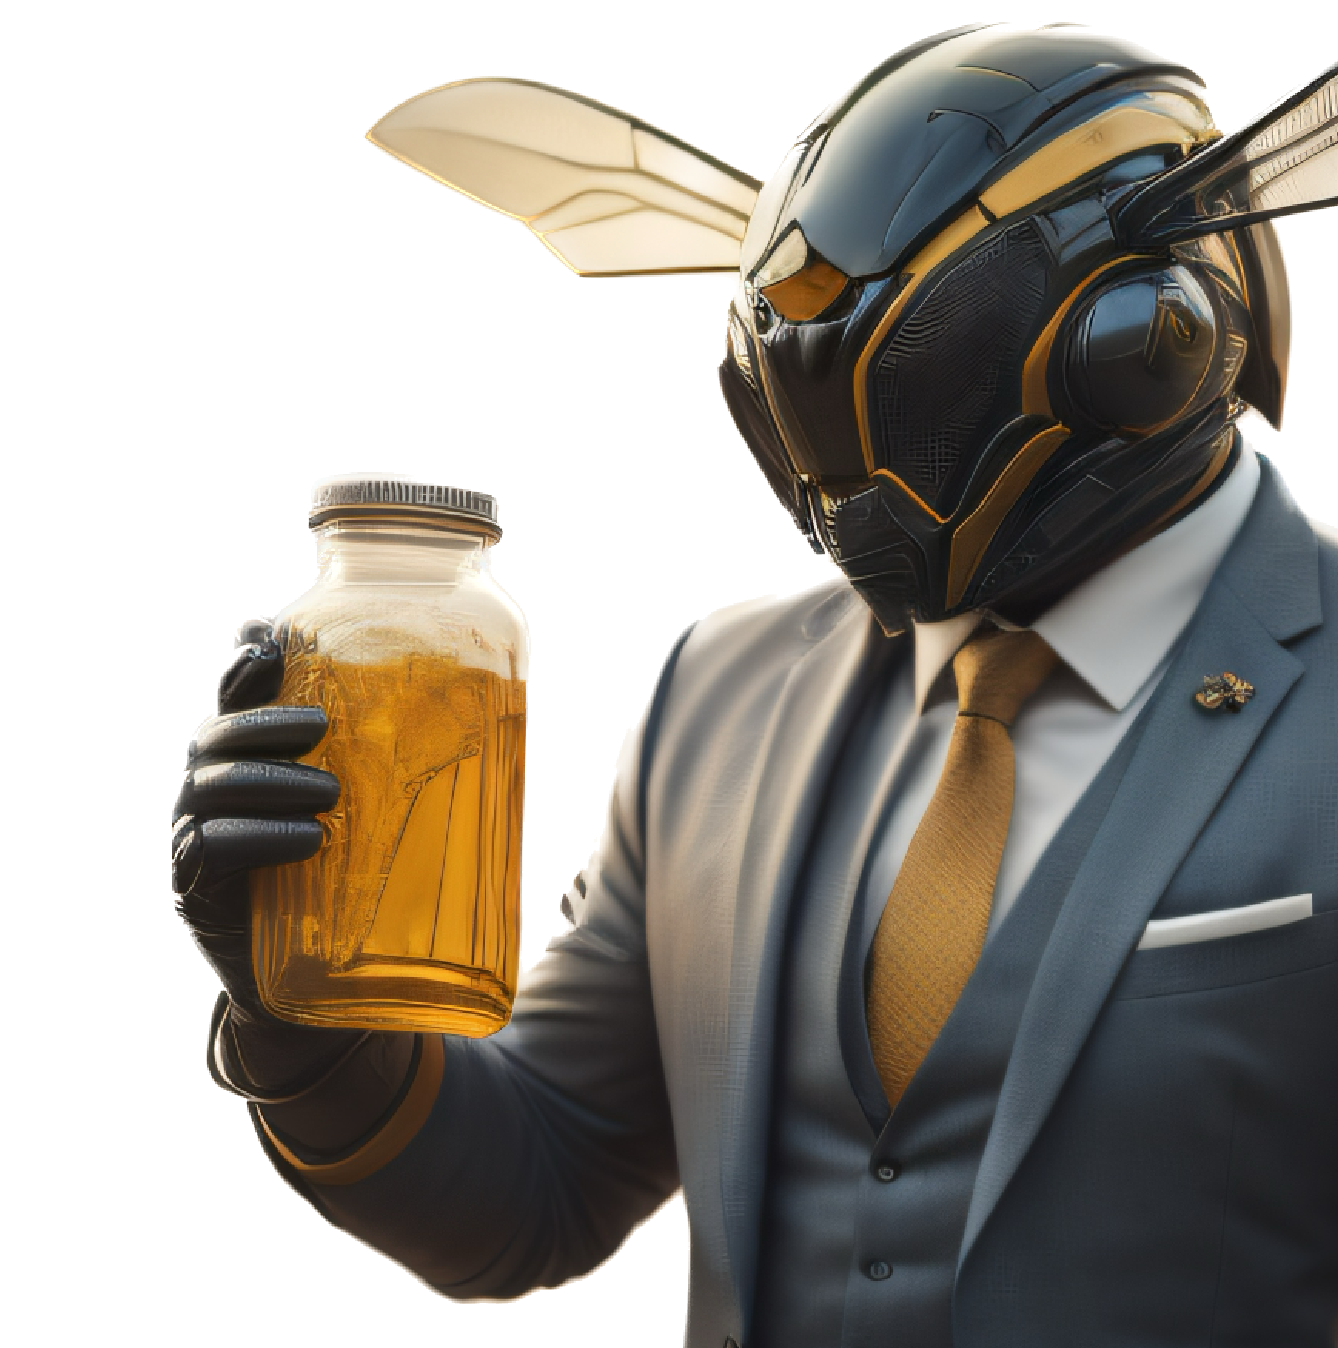
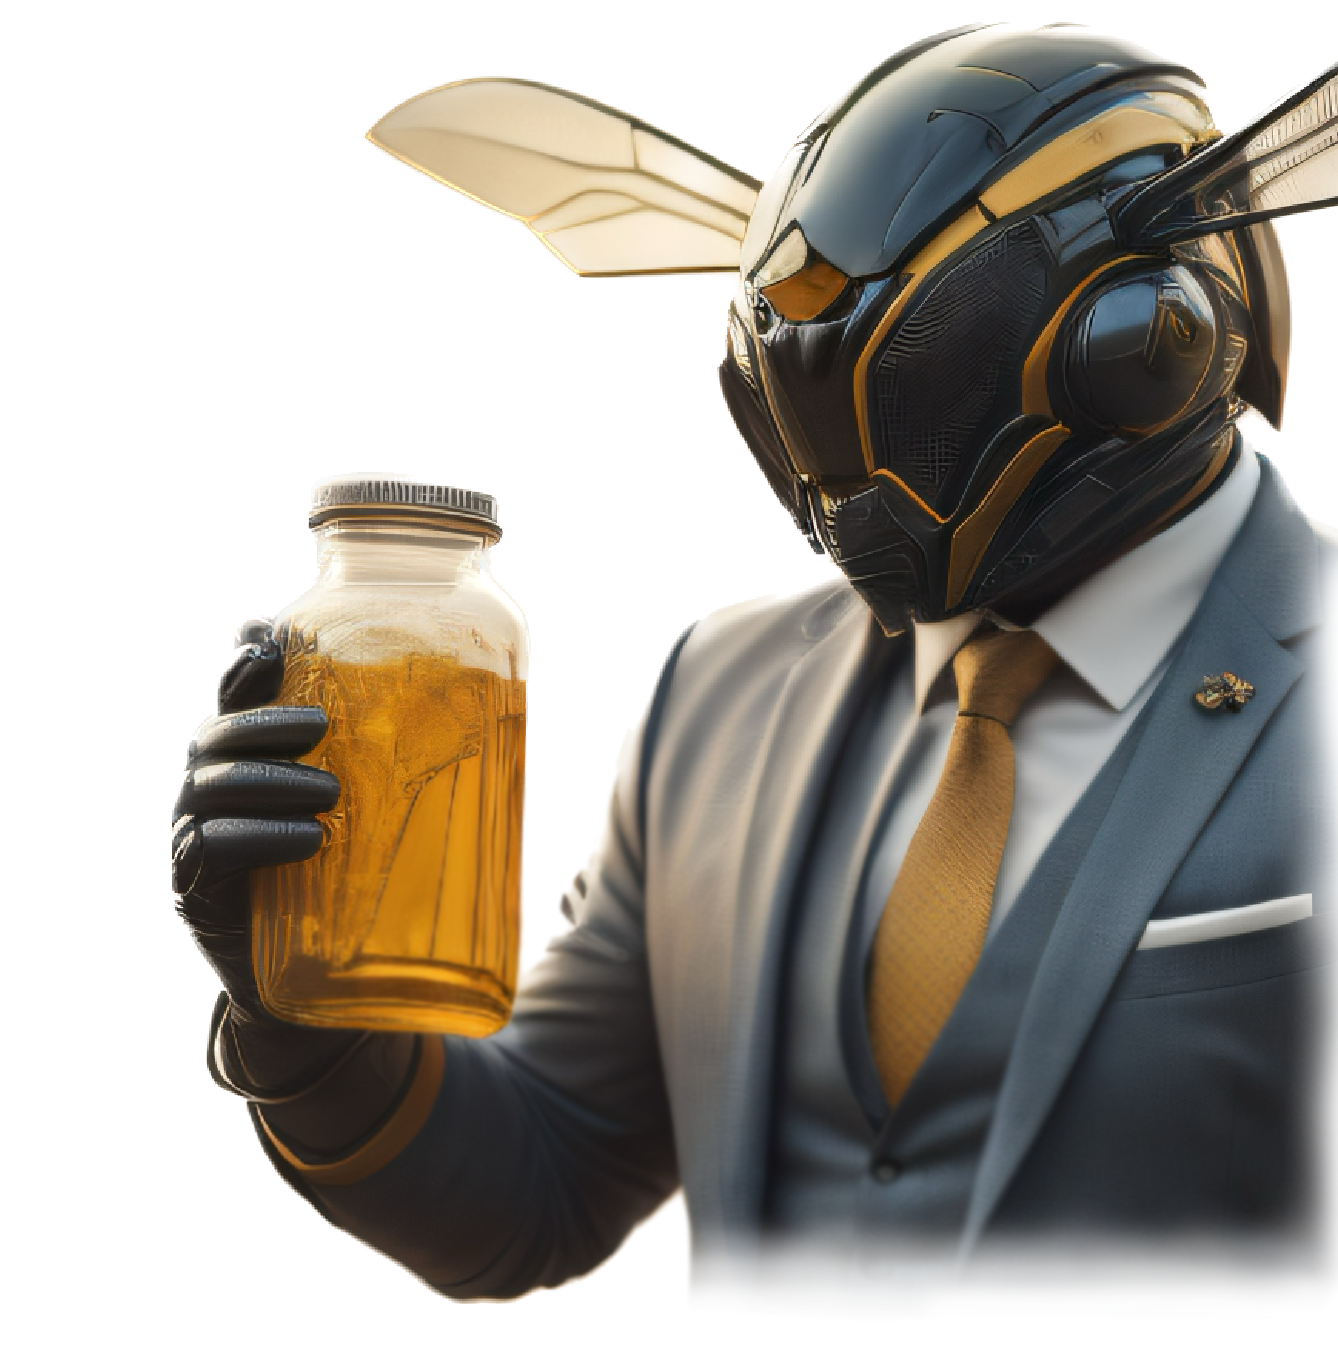
Constructing business section of home page

Changed region(s): [[0.4903, 0.3739, 1.0, 1.0], [0.2758, 0.6543, 0.3984, 0.7789]]

diff --git a/src/components/Navbar.jsx b/src/components/Navbar.jsx
@@ -3,20 +3,22 @@ import { close, logo, menu } from '../assets';
 import { navLinks } from '../constants';
 
 const Navbar = () => {
-    const [toggle, setToggle] = useState(false)
+    const [active, setActive] = useState("Home");
+    const [toggle, setToggle] = useState(false);
 
     return (
-        <nav className='w-full flex py-6 justify-between items-center navbar'>
-            <img src={logo} alt="Honeycomb" className='w-[124px] h-[32px]' />
-            <ul className='list-none sm:flex hidden justify-end items-center flex-1'>
+        <nav className="w-full flex py-6 justify-between items-center navbar">
+            <img src={logo} alt="honeycomb" className="w-[140px] h-[40px]" />
+
+            <ul className="list-none sm:flex hidden justify-end items-center flex-1">
                 {navLinks.map((nav, index) => (
                     <li
                         key={nav.id}
-                        className={`font-poppins font-normal cursor-pointer text-[16px] ${index === navLinks.length - 1 ? `mr-0` : `mr-10`} text-white`}>
-                        <a href={`#${nav.id}`}>
-                            {nav.title}
-
-                        </a>
+                        className={`font-poppins font-normal cursor-pointer text-[16px] ${active === nav.title ? "text-white" : "text-dimWhite"
+                            } ${index === navLinks.length - 1 ? "mr-0" : "mr-10"}`}
+                        onClick={() => setActive(nav.title)}
+                    >
+                        <a href={`#${nav.id}`}>{nav.title}</a>
                     </li>
                 ))}
             </ul>
@@ -25,33 +27,30 @@ const Navbar = () => {
                 <img
                     src={toggle ? close : menu}
                     alt="menu"
-                    className='w-[28px] h-[28px] object-contain cursor-pointer'
-                    onClick={() => setToggle((prev) => !prev)}
+                    className="w-[28px] h-[28px] object-contain"
+                    onClick={() => setToggle(!toggle)}
                 />
 
                 <div
-                    className={`${toggle ? `flex` : `hidden`} p-6 bg-black-gradient absolute top-20 right-0 mx-4 my-2 min-w-[140px] rounded-xl sidebar`}
+                    className={`${!toggle ? "hidden" : "flex"
+                        } p-6 bg-black-gradient absolute top-20 right-0 mx-4 my-2 min-w-[140px] rounded-xl sidebar`}
                 >
-                    <ul className='list-none flex flex-col justify-end items-center flex-1'>
+                    <ul className="list-none flex justify-end items-start flex-1 flex-col">
                         {navLinks.map((nav, index) => (
                             <li
                                 key={nav.id}
-                                className={`font-poppins font-normal cursor-pointer text-[16px] ${index === navLinks.length - 1 ? `mr-0` : `mb-4`} text-white`}>
-                                <a href={`#${nav.id}`}>
-                                    {nav.title}
-
-                                </a>
+                                className={`font-poppins font-medium cursor-pointer text-[16px] ${active === nav.title ? "text-white" : "text-dimWhite"
+                                    } ${index === navLinks.length - 1 ? "mb-0" : "mb-4"}`}
+                                onClick={() => setActive(nav.title)}
+                            >
+                                <a href={`#${nav.id}`}>{nav.title}</a>
                             </li>
                         ))}
                     </ul>
                 </div>
-
             </div>
-
-
-
         </nav>
-    )
-}
+    );
+};
 
 export default Navbar

diff --git a/src/components/Hero.jsx b/src/components/Hero.jsx
@@ -1,6 +1,6 @@
 import React from 'react';
 import styles from '../style';
-import { discount, bee2 } from '../assets';
+import { discount, bee2, bee3 } from '../assets';
 import GetStarted from './GetStarted';
 
 const Hero = () =>
@@ -20,18 +20,36 @@ const Hero = () =>
                     The next <br className='sm:block hidden' /> {" "}
                     <span
                         className='text-gradient'>Generation</span> {" "}
-                    Payment Method.
                 </h1>
 
                 <div className="ss:flex hidden md:mr-4 mr-0">
                     <GetStarted />
                 </div>
-
             </div>
+
+            <h1 className='font-poppins font-semibold ss:text-[68px] text-[52px] text-white ss:leading-[100px] leading-[75px] w-full'>Payment Method.
+            </h1>
+            <p className={`${styles.paragraph} max-w-[100%] mt-5`}>
+                Our team of experts recognise the importance of your honey (and money). Expertly trained in the handling and care of delicate <span className='text-gradient'>honey</span>, <span className='text-gradient'>honeycomb</span> and <span className='text-gradient'>wax</span>. This is the world's first bank that recognises <span className="text-white">honey as a currency</span>. <br /> <br />Get started today to find out how you can save, invest and trade your honey with us. And we haven't stopped there, because you can still save and invest your fiat and bitcoin currencies with us. We do it all.
+            </p>
+        </div>
+
+        <div className={`flex-1 flex ${styles.flexCenter} md:my-0 my-10 relative`}>
+            <img src={bee3} alt="billing" className='w-[100%] h-[100%] relative z-[5]' />
+
+            <div className="absolute z-[0] w-[40%] h-[35%] top-0 pink__gradient" />
+
+            <div className="absolute z-[1] w-[80%] h-[80%] rounded-full bottom-40 white__gradient" />
+
+            <div className="absolute z-[0] w-[50%] h-[50%] right-20 bottom-20 yellow__gradient " />
 
         </div>
 
-    </section>
+        <div className={`ss:hidden ${styles.flexCenter}`}>
+            <GetStarted />
+        </div>
+
+    </section >
 )
 
 

diff --git a/src/components/Business.jsx b/src/components/Business.jsx
@@ -1,9 +1,37 @@
-import React from 'react'
+import { features } from '../constants';
+import styles, { layout } from '../style';
+import Button from './Button';
 
-const Business = () => {
-    return (
-        <div>Business</div>
-    )
-}
+const FeatureCard = ({ feature: { icon, title, content, index } }) => (
+    <div className={`flex flex-row p-6 rounded-[20px] ${index !== features.length - 1 ? "mb-6" : "mb-0"} feature-card`}>
+        <div>
+            <img src={icon} alt='icon' className='w-[50%] h-[50%] object-contain'></img>
+        </div>
+    </div>
+)
+
+const Business = () => (
+    <section id='features' className={layout.section}>
+        <div className={layout.sectionInfo}>
+            <h2 className={styles.heading2}>
+                You do the business, <br className='sm:block hidden' /> we'll handle the <span className='text-gradient'> honey</span>.
+            </h2>
+            <p className={`${styles.paragraph} max-w-[530px] mt-[5]`}>
+                With the right banking provider, you can improve your financial life by building credit, earning rewards and saving sweet money. But with hundreds of banks in the market, who is going to handle your <span className='text-gradient'> honey </span> for you? That is where <span className='text-gradient'>HoneyComb </span> come in.
+            </p>
+
+
+            <Button styles="mt-10" />
+        </div>
+
+        <div className={`${layout.sectionImg} flex-col`}>
+            {features.map((feature, index) => (
+                <FeatureCard key={feature.id} feature={feature} index={index} />
+            ))}
+
+        </div>
+
+    </section>
+)
 
 export default Business

diff --git a/src/components/Stats.jsx b/src/components/Stats.jsx
@@ -1,9 +1,18 @@
-import React from 'react'
+import { stats } from '../constants';
+import styles from '../style';
 
-const Stats = () => {
-    return (
-        <div>Stats</div>
-    )
-}
+const Stats = () => (
+    <section className={`${styles.flexCenter} flex-row flex-wrap sm:mb-20 mb-6`}>
+        {stats.map((stat) => (
+            <div key={stat.id} className={`flex-1 flex justify-start items-center flex-row m-3`}>
+                <h4 className='font-poppins font-semibold xs:text-[40px] text-[30px] xs:leading-[52px] leading-[43px] text-white'>{stat.value}</h4>
+                <p className='font-poppins font-normal xs:text-[20px] text-[15px] xs:leading-[26px] leading-[21px] text-gradient uppercase ml-3'>{stat.title}</p>
+            </div>
+
+        ))}
+
+    </section>
+)
+
 
 export default Stats

diff --git a/src/assets/index.js b/src/assets/index.js
@@ -3,13 +3,14 @@ import bill from "./bill.png";
 import binance from "./binance.png";
 import bee1 from "./bee-graphic-1.png";
 import bee2 from "./bee-graphic-2.png";
+import bee3 from "./bee-graphic-3.png";
 import card from "./card.png";
 import coinbase from "./coinbase.png";
 import dropbox from "./dropbox.png";
 import logo from "./logo.png";
 import quotes from "./quotes.svg";
 import robot from "./robot.png";
-import send from "./Send.svg";
+import send from "./Send.png";
 import shield from "./Shield.svg";
 import star from "./Star.svg";
 import menu from "./menu.svg";
@@ -32,6 +33,7 @@ export {
   binance,
   bee1,
   bee2,
+  bee3,
   card,
   coinbase,
   dropbox,

diff --git a/src/constants/index.js b/src/constants/index.js
@@ -73,18 +73,18 @@ export const feedback = [
 export const stats = [
     {
         id: "stats-1",
-        title: "User Active",
-        value: "3800+",
+        title: "Active Customers",
+        value: "10k+",
     },
     {
         id: "stats-2",
-        title: "Trusted by Company",
+        title: "Trusting Businesses",
         value: "230+",
     },
     {
         id: "stats-3",
-        title: "Transaction",
-        value: "$230M+",
+        title: "Transactions",
+        value: "£230M+",
     },
 ];
 

diff --git a/src/style.js b/src/style.js
@@ -7,12 +7,12 @@ const styles = {
     flexCenter: "flex justify-center items-center",
     flexStart: "flex justify-center items-start",
 
-    paddingX: "sm:px-16 px-6",
-    paddingY: "sm:py-16 py-6",
+    paddingX: "sm:px-10 px-6",
+    paddingY: "sm:py-10 py-6",
     padding: "sm:px-16 px-6 sm:py-12 py-4",
 
-    marginX: "sm:mx-16 mx-6",
-    marginY: "sm:my-16 my-6",
+    marginX: "sm:mx-10 mx-6",
+    marginY: "sm:my-10 my-6",
 };
 
 export const layout = {

diff --git a/src/index.css b/src/index.css
@@ -47,7 +47,7 @@
       #fddeaf 12.19%,
       #f9cf8f 29.82%,
       #f5b960 51.94%,
-      #915a08 90.29%);
+      #b5710a 90.29%);
 }
 
 .bg-black-gradient {
@@ -131,6 +131,11 @@
 
 .pink__gradient {
   background: linear-gradient(90deg, #f4c4f3 0%, #fc67fa 100%);
+  filter: blur(900px);
+}
+
+.yellow__gradient {
+  background: linear-gradient(90deg, #e3eb48 0%, #f3d910 100%);
   filter: blur(900px);
 }
 

diff --git a/src/components/Button.jsx b/src/components/Button.jsx
@@ -1,9 +1,10 @@
 import React from 'react'
 
-const Button = () => {
-    return (
-        <div>Button</div>
-    )
-}
+const Button = ({ styles }) => (
+    <button type='button' className={`py-4 px-6 bg-yellow-gradient font-poppins font-medium text-[18px] text-primary outline-none ${styles}`}>
+        Get Started
+    </button>
+)
+
 
 export default Button
